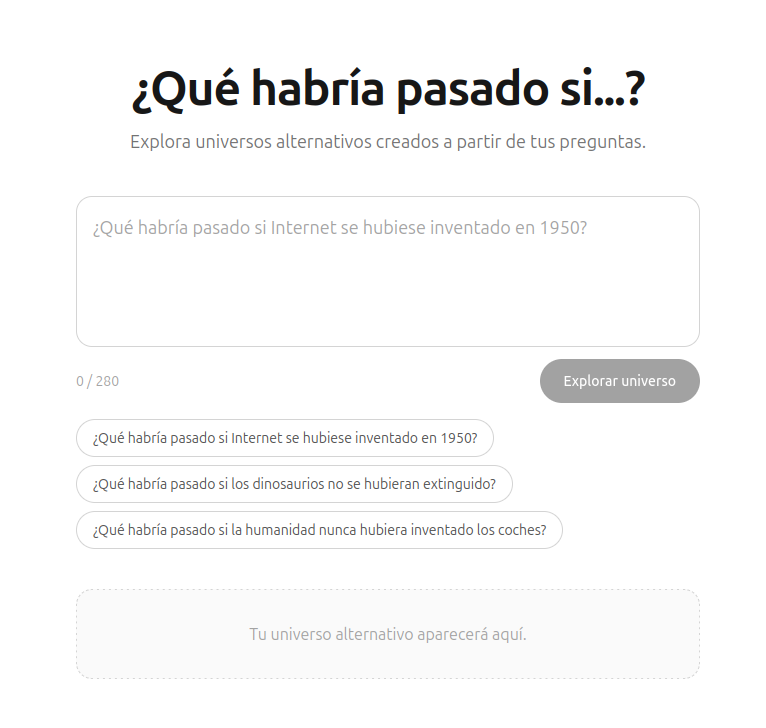
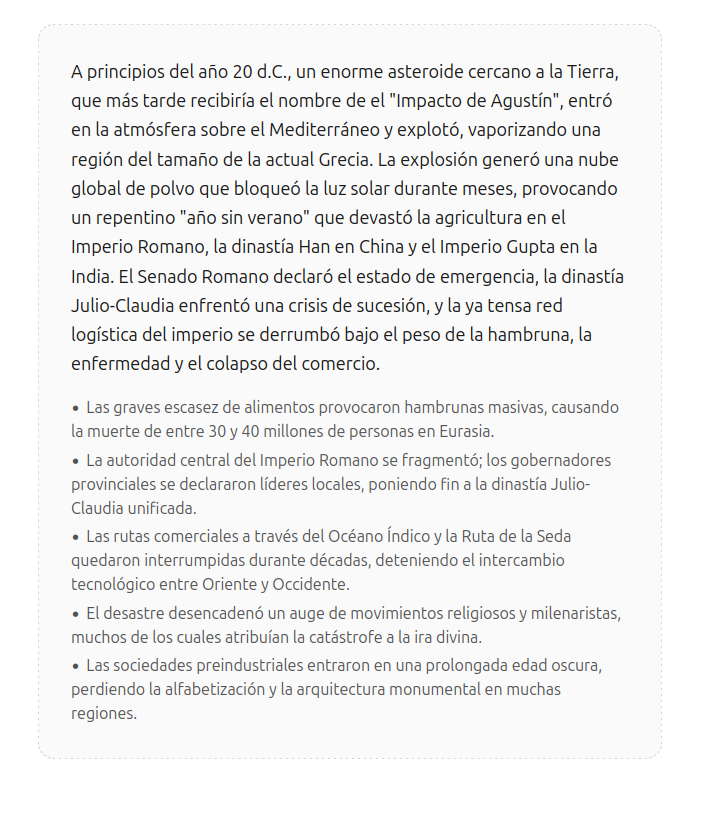
actualización capturas

Changed region(s): [[0.0928, 0.0604, 0.8973, 0.4533], [0.0928, 0.4835, 0.9283, 0.9066]]

diff --git a/README.md b/README.md
@@ -120,10 +120,3 @@ types/scenario.ts                  Tipos de consulta, resultado y estado
 nuxt.config.ts                     Configuración de Nuxt
 .env.example                       Plantilla de variables locales
 ```
-
-## Capturas
-
-Las capturas que hay ahora en `public/img` son de versiones anteriores. Para actualizarlas, guarda estas imágenes con estos nombres:
-
-- `public/img/cap1.png`: formulario actual con el selector de año y el nivel de realismo.
-- `public/img/cap2.png`: ejemplo de una respuesta generada, con narración y consecuencias.
